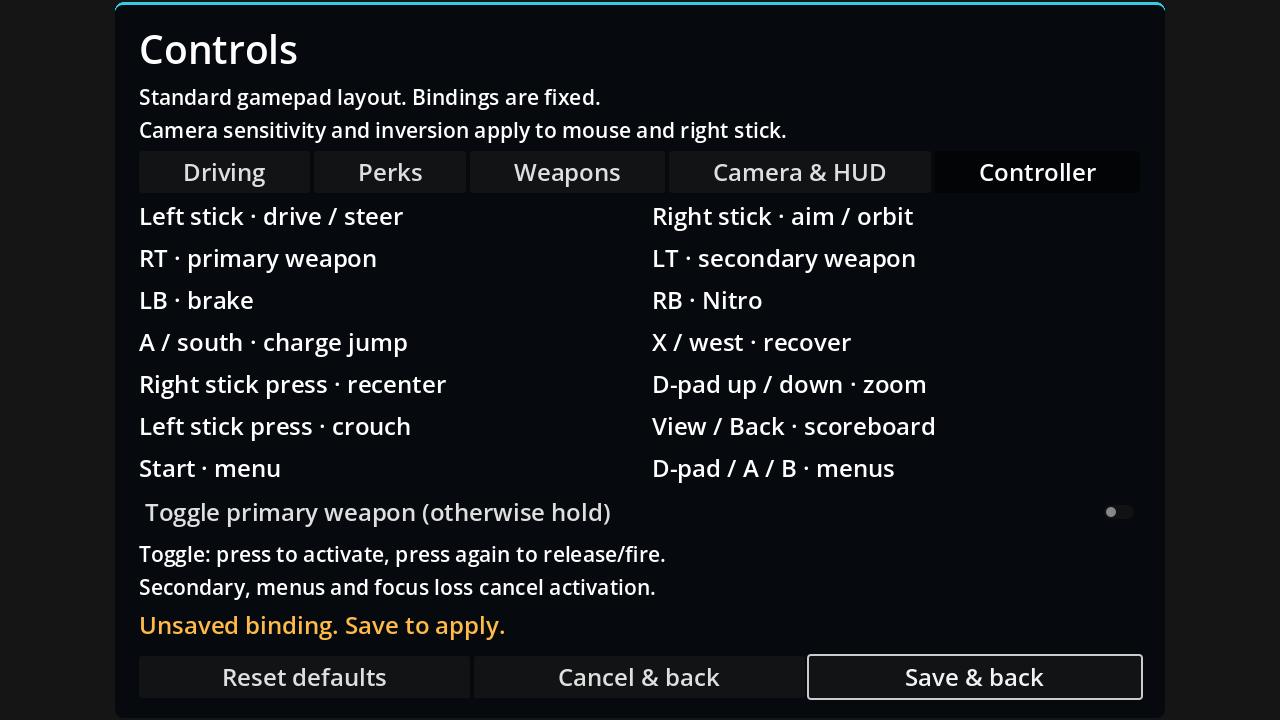
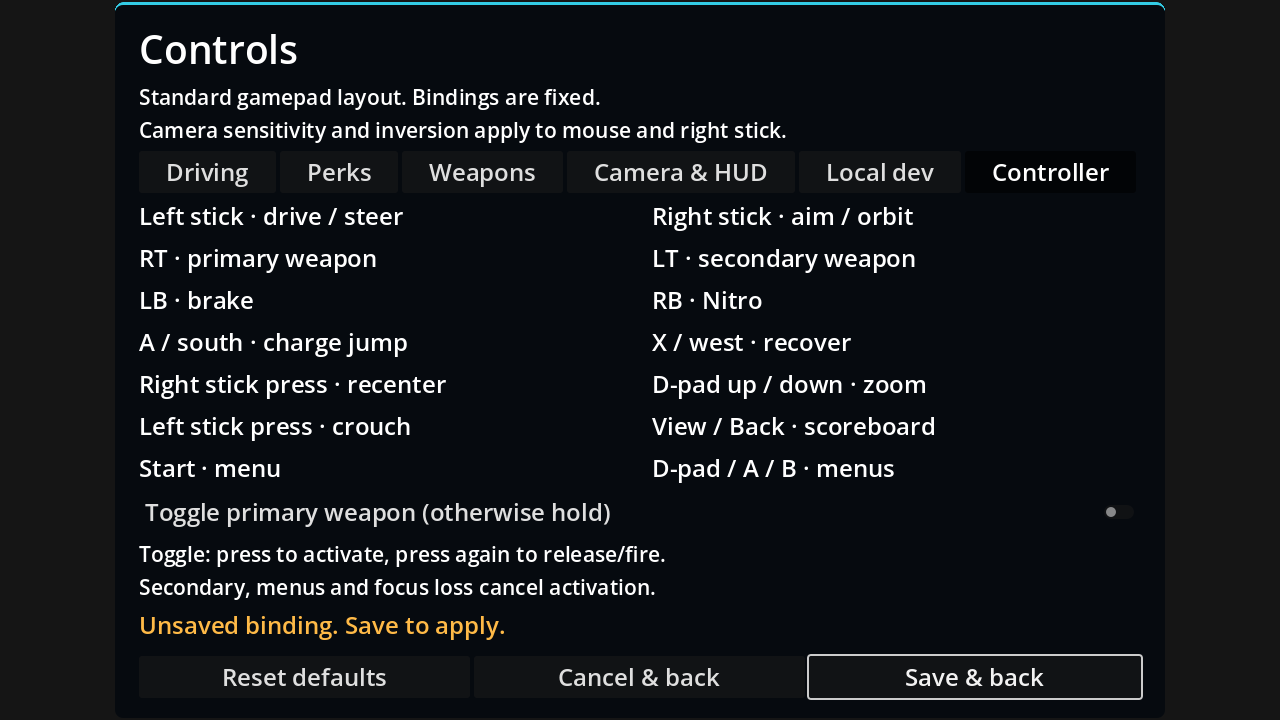
Retain controller layout evidence alongside local part settings (#22)

Changed region(s): [[0.125, 0.2139, 0.7188, 0.275], [0.75, 0.2139, 0.875, 0.275]]

diff --git a/docs/coordination/CONTROLLER_INPUT.md b/docs/coordination/CONTROLLER_INPUT.md
@@ -55,7 +55,9 @@ for initial window-manager focus before testing the production focus gate.
 
 Baseline, existing input-menu/preferences/settings, camera-settings, Atlas
 turret and Scorpion input checks pass after rebasing onto the new weapon,
-walker and practice-respawn work. The settings layout matrix covers 720p/4K
+walker and practice-respawn work. Final integration also preserves #64 local
+part shortcuts, its keyboard defaults/migration and the Local dev settings
+page; baseline, input and native layout checks pass on that combined tree. The settings layout matrix covers 720p/4K
 at 100/125/150% text and restoration to 100%; each controller label must fit.
 Native Forward+ on RTX 3080 verifies the same layout and retained capture:
 [Controller guide at 720p/150%](evidence/controller-input/controller-guide-150.png).
